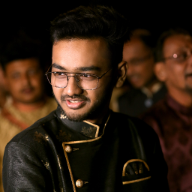
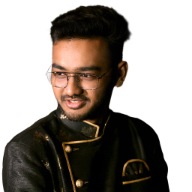
Changed Images

diff --git a/public/index.html b/public/index.html
@@ -2,7 +2,7 @@
 <html lang="en">
 	<head>
 		<meta charset="utf-8" />
-		<link rel="icon" href="%PUBLIC_URL%/HeroImage.jpg" />
+		<link rel="icon" href="%PUBLIC_URL%/HeroImage.png" />
 		<meta name="viewport" content="width=device-width, initial-scale=1" />
 		<meta name="theme-color" content="#000000" />
 		<meta

diff --git a/src/components/HeroSection/index.js b/src/components/HeroSection/index.js
@@ -13,7 +13,7 @@ import {
 	SubTitle,
 	ResumeButton,
 } from "./HeroStyle";
-import HeroImg from "../../images/HeroImage.jpg";
+import HeroImg from "../../images/HeroImage.png";
 import Typewriter from "typewriter-effect";
 import { Bio } from "../../data/constants";
 
